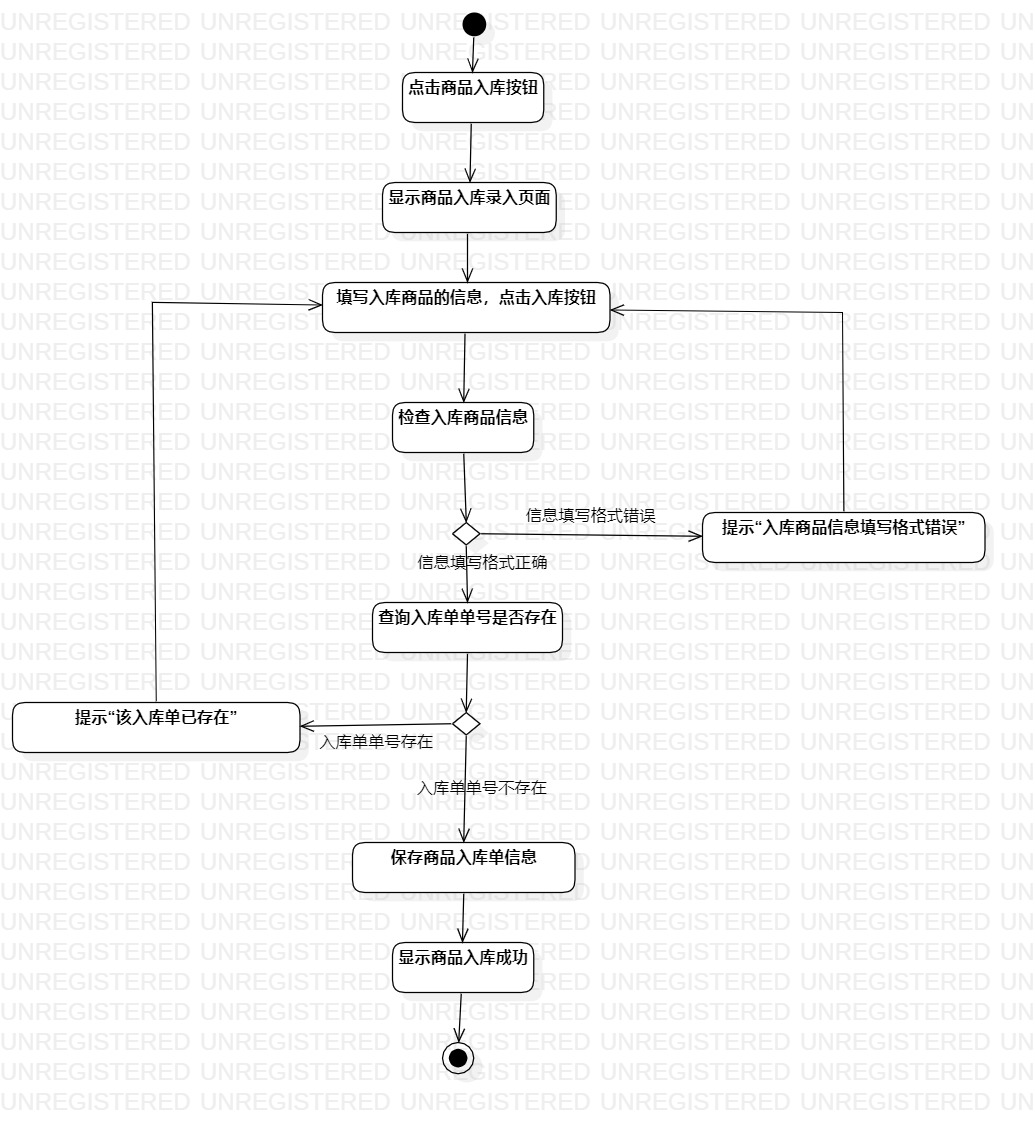
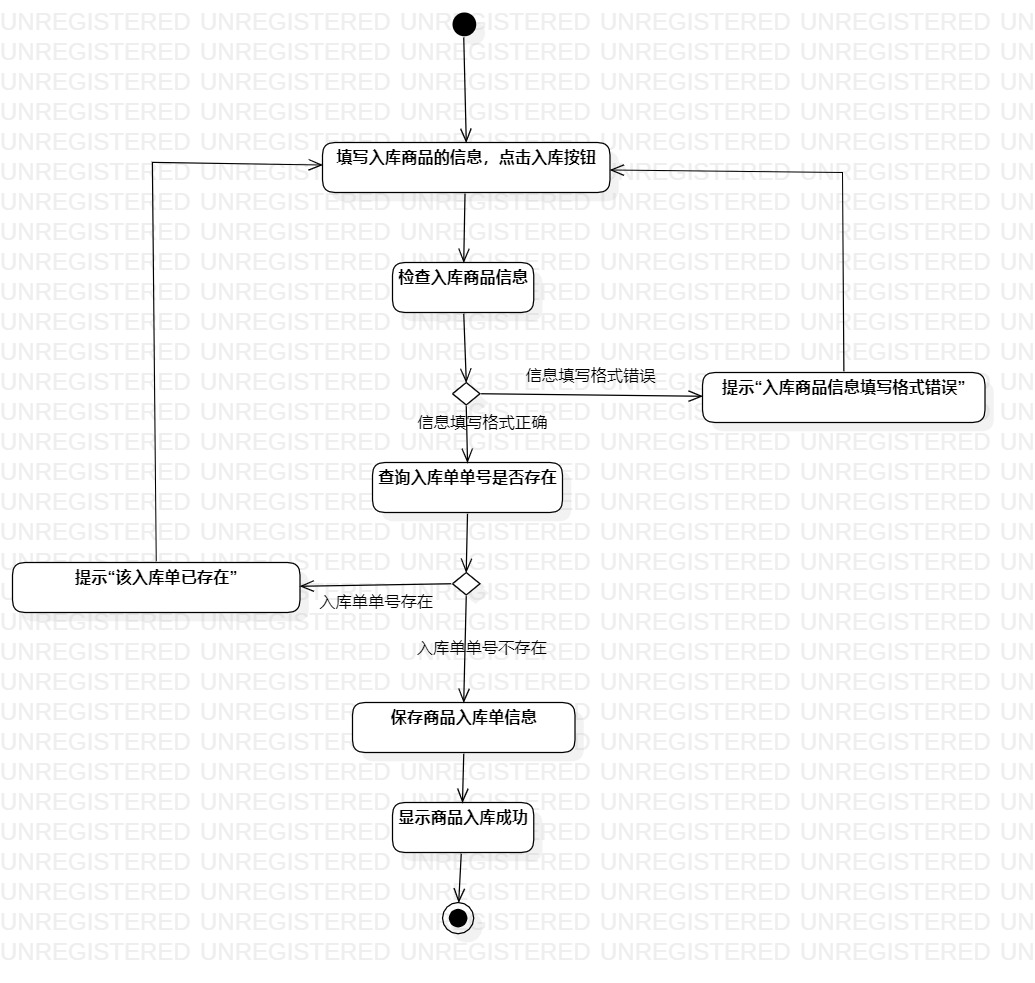
修改lab2.md和活动图

diff --git a/students/1714080902331/lab2.md b/students/1714080902331/lab2.md
@@ -30,47 +30,44 @@
 
 用例编号  | UC01 | 备注  
 -|:-|-  
-用例名称  | 商品入库  |   
-前置条件  | 小卖部库存管理员登录进入小卖部库存管理系统页面  | *可选*   
-后置条件  | 小卖部库存管理员进入商品入库功能页面     | *可选*   
-基本流程  | 1. 小卖部库存管理员点击商品入库按钮；  |*用例执行成功的步骤*    
-~| 2. 系统显示商品入库录入页面；  |   
-~| 3. 小卖部库存管理员填写入库商品的信息，点击入库按钮；  |   
-~| 4. 系统检查入库商品信息填写格式正确，查询入库单单号是否存在；  |
-~| 5. 系统查询入库单单号不存在，保存商品入库单信息；  |     
-~| 6. 系统显示商品入库成功。  | 
-扩展流程  | 4.1 系统检查发现商品入库信息填写格式错误，系统提示“入库商品信息填写格式错误”，返回步骤3。 |*用例执行失败*
-~| 5.1 系统查询入库单单号存在，提示“该入库单已存在”，返回步骤3。 | 
+用例名称  | 商品入库  |  
+前置条件  | 1. 小卖部库存管理员登录进入小卖部库存管理系统页面  | *可选*  
+~| 2. 小卖部库存管理员进入商品入库录入页面  |  
+后置条件  | 小卖部库存管理员完成商品入库     | *可选*  
+基本流程  | 1. 小卖部库存管理员填写入库商品的信息，点击入库按钮；  |*用例执行成功的步骤*  
+~| 2. 系统检查入库商品信息填写格式正确，查询入库单单号是否存在；  |  
+~| 3. 系统查询入库单单号不存在，保存商品入库单信息；  |  
+~| 4. 系统显示商品入库成功。  |  
+扩展流程  | 2.1 系统检查发现商品入库信息填写格式错误，系统提示“入库商品信息填写格式错误”，返回步骤3。 |*用例执行失败*  
+~| 3.1 系统查询入库单单号存在，提示“该入库单已存在”，返回步骤3。 |  
 
 ## 表2：商品出库用例规约 
 
 用例编号  | UC02 | 备注  
 -|:-|-  
-用例名称  | 商品出库  |   
-前置条件  | 小卖部库存管理员登录进入小卖部库存管理系统页面   | *可选*   
-后置条件  | 小卖部库存管理员进入商品出库功能页面     | *可选*   
-基本流程  | 1. 小卖部库存管理员点击商品出库按钮；  |*用例执行成功的步骤*    
-~| 2. 系统显示商品出库录入页面；  |   
-~| 3. 小卖部库存管理员填写出库商品的信息，点击出库按钮；  |   
-~| 4. 系统检查出库商品信息填写格式正确，查询出库单单号是否存在；  |
-~| 5. 系统查询出库单单号不存在，查询库存； |
-~| 6. 系统查询库存发现商品存在且库存数量不小于出库数量，保存商品出库单信息；  |
-~| 7. 系统显示商品出库成功。  |
-扩展流程  | 4.1 系统检查发现商品出库信息填写格式错误，提示“出库商品信息填写格式错误”，返回步骤3。 |*用例执行失败*
-~| 5.1 系统查询入出库单单号存在，提示“该出库单已存在”，返回步骤3 | 
-~| 6.1 系统查询商品库存信息，发现商品不存在或库存数量小于出库数量，提示“商品不存在或库存不足”，显示商品出库失败。 |   
+用例名称  | 商品出库  |  
+前置条件  | 1. 小卖部库存管理员登录进入小卖部库存管理系统页面   | *可选*  
+~| 2. 小卖部库存管理员进入商品出库录入页面  |  
+后置条件  | 小卖部库存管理员完成商品出库     | *可选*  
+基本流程  | 1. 小卖部库存管理员填写出库商品的信息，点击出库按钮；  | *用例执行成功的步骤*  
+~| 2. 系统检查出库商品信息填写格式正确，查询出库单单号是否存在；  |  
+~| 3. 系统查询出库单单号不存在，查询库存； |  
+~| 4. 系统查询库存发现商品存在且库存数量不小于出库数量，保存商品出库单信息；  |  
+~| 5. 系统显示商品出库成功。  |  
+扩展流程  | 2.1 系统检查发现商品出库信息填写格式错误，提示“出库商品信息填写格式错误”，返回步骤3。 |*用例执行失败*  
+~| 3.1 系统查询入出库单单号存在，提示“该出库单已存在”，返回步骤3 |  
+~| 4.1 系统查询商品库存信息，发现商品不存在或库存数量小于出库数量，提示“商品不存在或库存不足”，显示商品出库失败。 |  
 
 ## 表3：查询库存用例规约 
 
 用例编号  | UC03 | 备注  
 -|:-|-  
 用例名称  | 查询库存  |   
-前置条件  | 小卖部库存管理员登录进入小卖部库存管理系统页面  | *可选*   
-后置条件  | 小卖部库存管理员进入查询库存功能页面     | *可选*   
-基本流程  | 1. 小卖部库存管理员点击查询库存按钮；  |*用例执行成功的步骤*    
-~| 2. 系统显示查询库存功能页面；  |   
-~| 3. 小卖部库存管理员填写要查询的商品信息，点击查询按钮；  |
-~| 4. 系统检查商品名称不为空，查询商品信息。  |   
-~| 5. 系统查询发现商品存在，显示查询商品的库存信息页面。  |   
-扩展流程  | 4.1 系统检查商品名称为空，提示“商品名称不能为空”。 |*用例执行失败*
-~| 5.1 系统查询发现商品不存在，显示“商品不存在”。  |
+前置条件  | 1. 小卖部库存管理员登录进入小卖部库存管理系统页面  | *可选*  
+~| 2. 小卖部库存管理员进入查询库存功能页面  |  
+后置条件  | 小卖部库存管理员查询商品库存     | *可选*  
+基本流程  | 1. 小卖部库存管理员填写要查询的商品信息，点击查询按钮；  |*用例执行成功的步骤*   
+~| 2. 系统检查商品名称不为空，查询商品信息。  |   
+~| 3. 系统查询发现商品存在，显示查询商品的库存信息页面。  |   
+扩展流程  | 2.1 系统检查商品名称为空，提示“商品名称不能为空”。 |*用例执行失败*  
+~| 3.1 系统查询发现商品不存在，显示“商品不存在”。  |  
